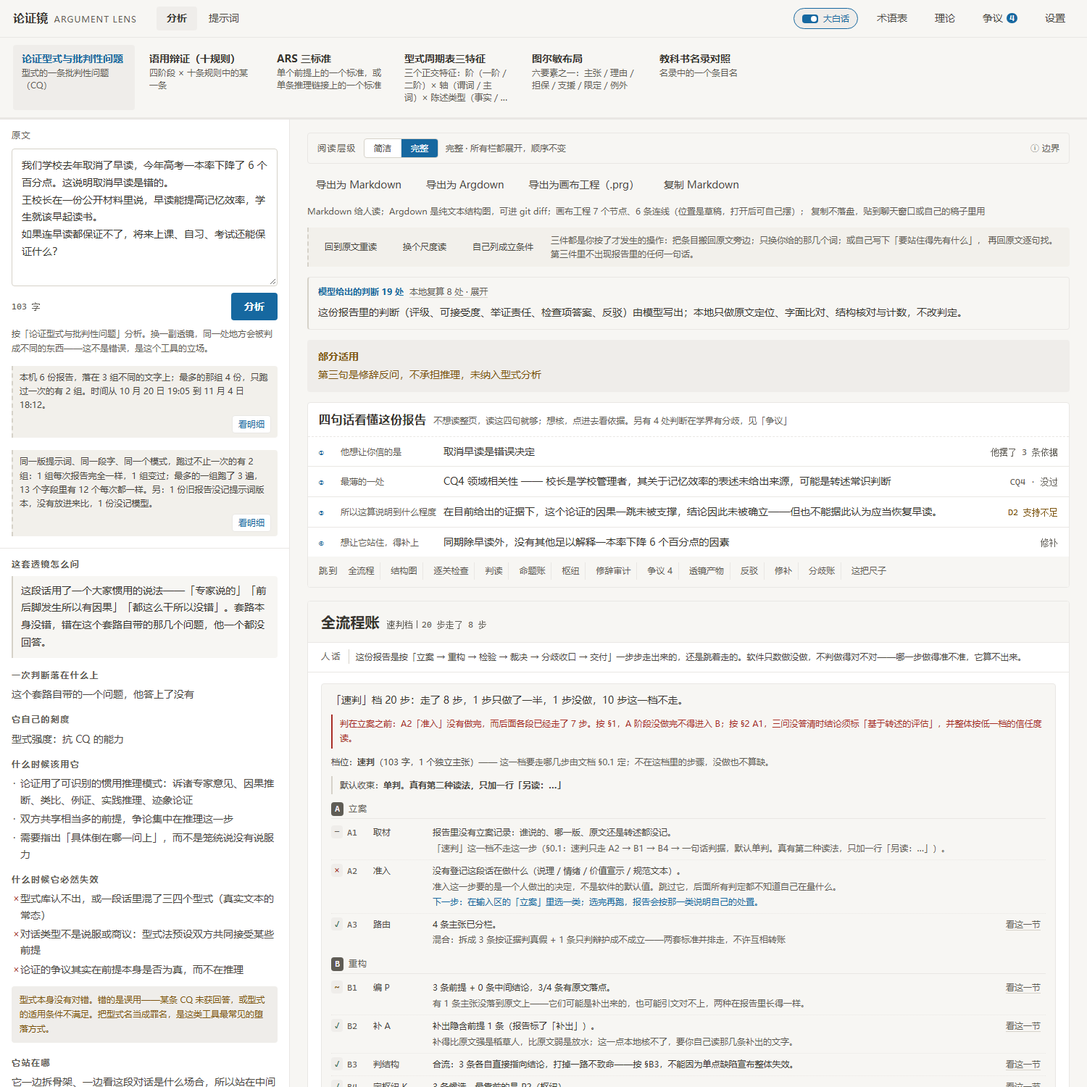
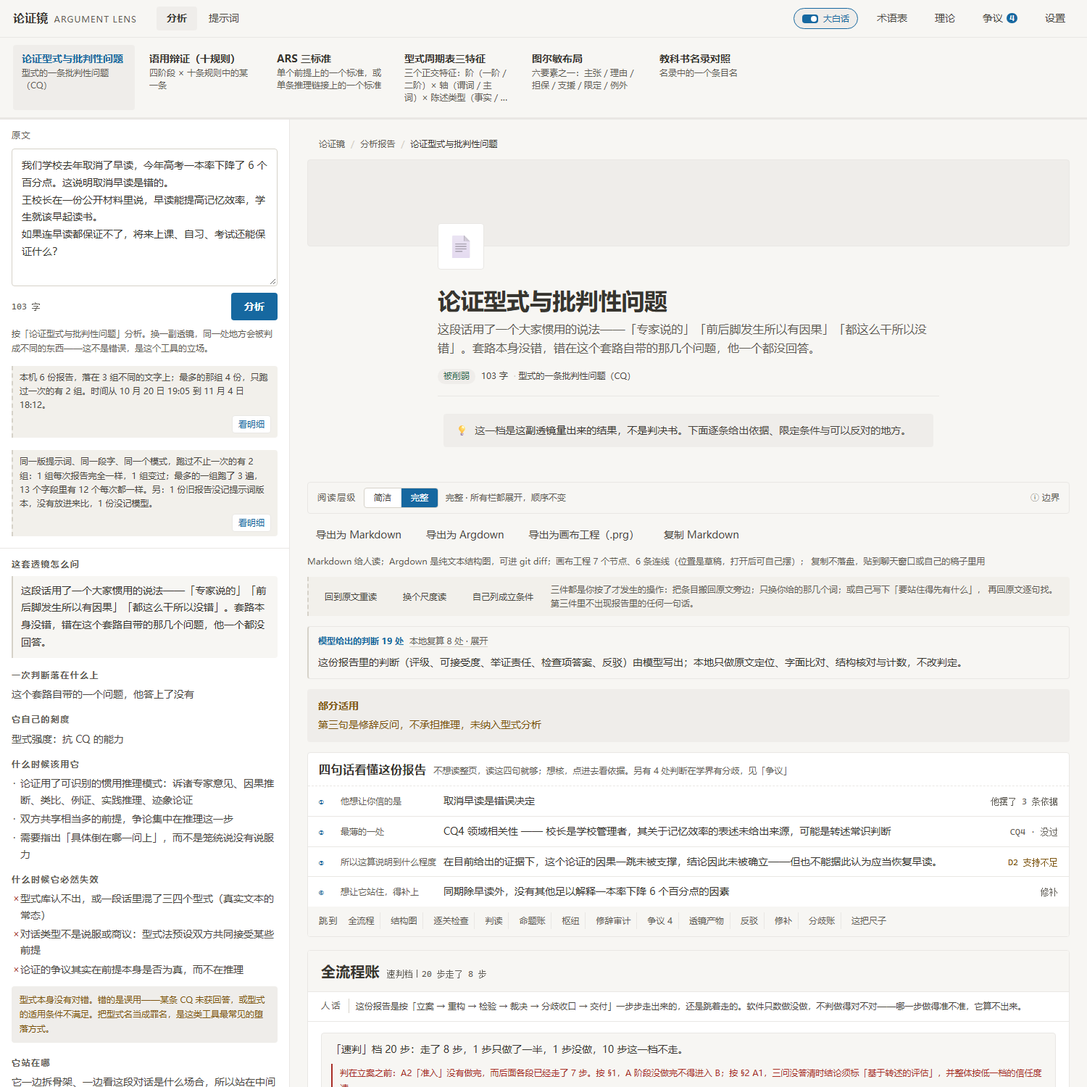
界面：补上 Notion 文档页骨架，让报告读起来像截图那样
用户看了 Notion 配色版仍给出 StyleKit 的 Notion Showcase 截图，要
「就像这样一样，重新调整」。配色已经对了，缺的是文档页骨架：那张图是
面包屑 + 横贯整栏的封面 + 居中 emoji 与 708px 读列 + 大标题 + meta 胶囊
+ Callout；我们此前只是把三栏工具台换了米色。

判断：这是诊断工具不是文档站，左侧原文输入是核心交互、报告内容不能减。
所以保留全部功能，给报告主区加一层文档头，不把应用改成只读文档。

· 新增 DocHead 组件与 styles-docpage.css，App.tsx 与预览 mock.tsx 共用：
  面包屑、纯色封面、emoji、透镜名大标题、plainClaim 副标题、判定档位胶囊
  （走 LEVEL_LABEL[verdict.level]，不写死）、Callout 说明「不是判决书」。
· 结构上踩坑：封面最初也限 708px，截图里上窄下宽割裂。改成封面横贯整栏、
  只有 .doc-inner 是 708px 居中读列，与下方报告接上。

check:ui-rules 172 → 191 项：文档头七部件、708px 居中、封面不自设宽度、
胶囊 999px、Callout 4px+灰底、样式表无 hex 无渐变、两套骨架都渲染且档位
走真实字段。顺带修圆角断言盲区（var(--radius-*) 解成字面值再判）。
15 组反证逐组真红含 2 组防假绿；反证抓出并修掉一个真实假绿：部件检测用
前缀匹配把 doc-cover-old 也算命中，改成带闭合引号的精确匹配。

verify 59、check:docs 91、基准重放 6 份一致、smoke / dist / pack:check 全绿。
首屏重拍留档 ui-docpage-2026-11-21.png。没验的：无头 Chrome 缺 emoji 字体
截成灰方块（真机应为彩色）、整篇观感像不像仍是人眼判断。判定/档位/
提示词/库一个字没动。

diff --git a/src/renderer/src/styles-docpage.css b/src/renderer/src/styles-docpage.css
@@ -1,0 +1,190 @@
+/*
+ * 文档页外壳（Notion Showcase 那张图的形态）。
+ *
+ * 为什么有这一层：
+ * 之前的主窗口是「三栏工具台」——顶栏 + 透镜条 + 400px 输入框 + 报告区。
+ * 用户给的截图是 Notion 的文档展示页：窄导航侧栏 + 面包屑 + 封面 +
+ * emoji + 大标题 + 一行 meta 胶囊 + 708px 居中的读列 + Callout 块。
+ * 配色已经对了，缺的是这套「文档页」的骨架。这里只补骨架，不动任何判定、
+ * 档位、报告内容——报告仍原样排在文档头下面。
+ *
+ * 全部颜色走契约层/语义层变量，不自带 hex；字号只用 12/14/16/20/24/32；
+ * 圆角只 4px 与 999px 胶囊；无渐变、无投影、无位移、hover 只变背景色。
+ */
+
+/* ── 文档页容器：封面铺满报告区，正文读列居中 ───────────────
+ * 报告区的宽度由 .main>* 的 1240px 上限管，这里不再另设 708——
+ * 否则封面只有半栏宽、下面的报告铺满，会出现「上窄下宽」的割裂。
+ * 真正 708px 的读列是里面的 .doc-inner。截图正是这个结构：
+ * 封面横跨整栏，emoji / 标题 / 正文收在居中的文档读列里。 */
+.doc-page {
+  width: 100%;
+  padding: 0 0 var(--spacing-24);
+}
+
+/* 708px 居中读列：正文、标题、emoji 都收在这里。 */
+.doc-inner {
+  width: 100%;
+  max-width: var(--page-max-width);
+  margin: 0 auto;
+}
+
+/* ── 面包屑：StyleKit / Notion Style / Showcase 那种一行浅灰路径 ── */
+.doc-crumbs {
+  display: flex;
+  align-items: center;
+  gap: var(--spacing-8);
+  font-size: var(--text-label);
+  color: var(--ink-3);
+  line-height: var(--leading-label);
+  padding: var(--spacing-8) var(--spacing-16) var(--spacing-12);
+}
+/* 每一截面包屑：分隔符与文字同一行，避免换行时把「/」甩到行首 */
+.crumb-wrap {
+  display: inline-flex;
+  align-items: center;
+  gap: var(--spacing-8);
+}
+.doc-crumbs .crumb {
+  color: var(--ink-3);
+}
+.doc-crumbs .crumb.here {
+  color: var(--ink);
+  font-weight: var(--font-weight-medium);
+}
+.doc-crumbs .sep {
+  color: var(--color-line-strong);
+}
+
+/* ── 封面：一条纯色带（不是渐变、不是图片），低到只剩一道色块 ── */
+.doc-cover {
+  height: 120px;
+  background: var(--muted-bg);
+  border-radius: var(--radius-cards);
+  border: 1px solid var(--hair);
+}
+
+/* ── emoji 图标：压在封面下沿，文档页的视觉锚点 ───────────── */
+.doc-emoji {
+  width: 64px;
+  height: 64px;
+  margin-top: -32px;
+  margin-left: var(--spacing-8);
+  display: flex;
+  align-items: center;
+  justify-content: center;
+  font-size: var(--text-display);
+  line-height: 1;
+  background: var(--panel);
+  border: 1px solid var(--hair);
+  border-radius: var(--radius-cards);
+  position: relative;
+}
+
+/* ── 标题区 ───────────────────────────────────────────────── */
+.doc-head {
+  padding: var(--spacing-24) var(--spacing-8) 0;
+}
+.doc-title {
+  font-family: var(--display);
+  font-size: var(--text-display);
+  line-height: var(--leading-display);
+  letter-spacing: var(--tracking-display);
+  font-weight: var(--font-weight-semibold);
+  color: var(--ink);
+  margin: 0 0 var(--spacing-8);
+}
+.doc-subtitle {
+  font-size: var(--text-body-lg);
+  line-height: var(--leading-body-lg);
+  color: var(--ink-3);
+  margin: 0 0 var(--spacing-16);
+}
+
+/* ── meta 胶囊行：Created / Status / Category / Version ────── */
+.doc-meta {
+  display: flex;
+  flex-wrap: wrap;
+  align-items: center;
+  gap: var(--spacing-8);
+  font-size: var(--text-label);
+  color: var(--ink-3);
+  line-height: var(--leading-label);
+  padding-bottom: var(--spacing-16);
+  border-bottom: 1px solid var(--hair);
+}
+.doc-meta .mi {
+  display: inline-flex;
+  align-items: center;
+  gap: var(--spacing-4);
+}
+.doc-meta .mi b {
+  color: var(--ink-2);
+  font-weight: var(--font-weight-medium);
+}
+.doc-meta .dot {
+  color: var(--color-line-strong);
+}
+/* Status 胶囊：唯一带底色的 meta，999px 圆角，压深绿字 */
+.doc-pill {
+  display: inline-flex;
+  align-items: center;
+  padding: 2px var(--spacing-8);
+  border-radius: var(--radius-pills);
+  background: var(--muted-bg);
+  color: var(--strong);
+  font-size: var(--text-label);
+  font-weight: var(--font-weight-medium);
+  line-height: var(--leading-label);
+}
+
+/* ── Callout 块：浅灰底 + 左图标位 + 4px 圆角 ─────────────── */
+.doc-callout {
+  display: flex;
+  gap: var(--spacing-8);
+  padding: var(--spacing-12) var(--spacing-16);
+  margin: var(--spacing-24) var(--spacing-8);
+  background: var(--muted-bg);
+  border-radius: var(--radius-cards);
+  font-size: var(--text-body);
+  line-height: var(--leading-body);
+  color: var(--ink-2);
+}
+.doc-callout .ci {
+  flex: 0 0 16px;
+  font-size: var(--text-body);
+  line-height: var(--leading-body);
+}
+.doc-callout b {
+  color: var(--ink);
+  font-weight: var(--font-weight-medium);
+}
+
+/* ── 正文小标题与段落 ─────────────────────────────────────── */
+.doc-h2 {
+  font-size: var(--text-heading);
+  line-height: var(--leading-heading);
+  font-weight: var(--font-weight-semibold);
+  color: var(--ink);
+  margin: var(--spacing-32) var(--spacing-8) var(--spacing-8);
+}
+.doc-h3 {
+  font-size: var(--text-subheading);
+  line-height: var(--leading-subheading);
+  font-weight: var(--font-weight-medium);
+  color: var(--ink);
+  margin: var(--spacing-24) var(--spacing-8) var(--spacing-8);
+}
+.doc-p {
+  font-size: var(--text-body);
+  line-height: var(--leading-body);
+  color: var(--ink-2);
+  margin: 0 var(--spacing-8) var(--spacing-12);
+  max-width: var(--read-measure);
+}
+
+/* ── 键盘焦点：2px 描边环，不是光晕 ───────────────────────── */
+.doc-page :focus-visible {
+  outline: 2px solid var(--color-link-blue);
+  outline-offset: 1px;
+}

diff --git a/src/renderer/src/components/DocHead.tsx b/src/renderer/src/components/DocHead.tsx
@@ -1,0 +1,69 @@
+/*
+ * 文档页头部（Notion Showcase 那张图的骨架）。
+ *
+ * 这不是新功能：面包屑、封面、emoji、大标题、meta 胶囊只是把「这份报告是谁」
+ * 的信息换成文档页的呈现方式。字段全部来自调用方已有的数据——透镜名、字数、
+ * 判定档位——不新增任何业务数据，也不编造 Created/Version 这类没有的东西：
+ * 没有的字段就不显示，宁可少一行也不编。
+ */
+import type { ReactNode } from 'react';
+
+export interface DocHeadProps {
+  /** 面包屑，最后一项是当前位置。 */
+  crumbs: string[];
+  /** emoj：文档页的视觉锚点，一个字符。 */
+  emoji?: string;
+  /** 大标题。 */
+  title: string;
+  /** 一句话副标题。 */
+  subtitle?: string;
+  /** meta 行右侧的胶囊，通常是判定档位。 */
+  status?: string;
+  /** meta 行的其他字段（透镜 / 字数 / 时间等），逐条 shallow 文本。 */
+  meta?: string[];
+  /** 封面下方、标题上方可选的 Callout（例如「这份报告判的是哪一段」）。 */
+  callout?: ReactNode;
+}
+
+export function DocHead({ crumbs, emoji = '📄', title, subtitle, status, meta = [], callout }: DocHeadProps) {
+  return (
+    <header className="doc-page">
+      <nav className="doc-crumbs" aria-label="位置">
+        {crumbs.map((c, i) => (
+          <span key={i} className="crumb-wrap">
+            {i > 0 && <span className="sep" aria-hidden="true">/</span>}
+            <span className={`crumb ${i === crumbs.length - 1 ? 'here' : ''}`}>{c}</span>
+          </span>
+        ))}
+      </nav>
+
+      <div className="doc-cover" aria-hidden="true" />
+
+      <div className="doc-inner">
+        <div className="doc-emoji" aria-hidden="true">{emoji}</div>
+
+        <div className="doc-head">
+          <h1 className="doc-title">{title}</h1>
+          {subtitle && <p className="doc-subtitle">{subtitle}</p>}
+
+          <div className="doc-meta">
+            {status && <span className="doc-pill">{status}</span>}
+            {meta.map((m, i) => (
+              <span className="mi" key={i}>
+                {i > 0 && <span className="dot" aria-hidden="true">·</span>}
+                <b>{m}</b>
+              </span>
+            ))}
+          </div>
+
+          {callout && (
+            <aside className="doc-callout">
+              <span className="ci" aria-hidden="true">💡</span>
+              <div>{callout}</div>
+            </aside>
+          )}
+        </div>
+      </div>
+    </header>
+  );
+}

diff --git a/src/renderer/src/App.tsx b/src/renderer/src/App.tsx
@@ -18,8 +18,9 @@ import {
   UsageRecord,
   UsageSummary,
 } from '@shared/types';
-import { DEFAULT_THEORY, THEORIES, THEORY_BY_ID, type TheoryId } from '@shared/theories';
+import { DEFAULT_THEORY, THEORIES, THEORY_BY_ID, LEVEL_LABEL, type TheoryId } from '@shared/theories';
 import { DiagnosisView } from './components/Diagnosis';
+import { DocHead } from './components/DocHead';
 import { TheoryBrief } from './components/TheoryBrief';
 import { TheoryBaseDialog } from './components/TheoryBase';
 import { PromptView } from './components/PromptView';
@@ -1635,6 +1636,26 @@ export default function App() {
             </aside>
 
             <main className="main">
+              {/*
+                文档页头：把「这份报告是谁」换成 Notion 文档页的呈现方式
+                （面包屑 + 封面 + emoji + 大标题 + meta 胶囊 + Callout）。
+                只在有报告时出现——空状态不该摆一份空报告的封面。
+                字段全部来自 diag / profile，不新增业务数据。
+              */}
+              {diag && !loading && (
+                <DocHead
+                  crumbs={['论证镜', '分析报告', profile.name]}
+                  title={profile.name}
+                  subtitle={profile.plainClaim}
+                  status={LEVEL_LABEL[diag.verdict.level]}
+                  meta={[`${diag.passage.length} 字`, profile.unit]}
+                  callout={
+                    <>
+                      这一档是<b>这副透镜量出来的结果，不是判决书</b>。下面逐条给出依据、限定条件与可以反对的地方。
+                    </>
+                  }
+                />
+              )}
               {/*
                 长文台账放在报告之前：它是这一批报告的身份——「下面这份是第 5 段」。
                 放在报告之后，读者会先读到一份完整的报告，再被告知它其实只是一段。

diff --git a/src/renderer/src/mock.tsx b/src/renderer/src/mock.tsx
@@ -1,6 +1,6 @@
 import { StrictMode, useEffect, useState, type ReactNode } from 'react';
 import { createRoot } from 'react-dom/client';
-import { THEORIES, THEORY_BY_ID } from '@shared/theories';
+import { THEORIES, THEORY_BY_ID, LEVEL_LABEL } from '@shared/theories';
 import { disputesIn } from '@shared/disputes';
 import { DiagnosisView } from './components/Diagnosis';
 import { HistoryPanel, when } from './components/History';
@@ -44,9 +44,11 @@ import { planLongform, type LongItem, type LongLedger } from '@shared/longform';
 import { LongformLedger } from './components/LongformLedger';
 import { SegmentBar } from './components/SegmentBar';
 import { DensityProvider, BriefFold } from './components/Density';
+import { DocHead } from './components/DocHead';
 import { PREVIEW_DENSITY } from '@shared/ui-density';
 import './styles-density.css';
 import './styles-longform.css';
+import './styles-docpage.css';
 
 /*
  * ?lens=toulmin|ars|pta 可以换成另一副透镜的预览数据。
@@ -1071,6 +1073,18 @@ function Preview() {
           </BriefFold>
         </aside>
         <main className="main">
+          <DocHead
+            crumbs={['论证镜', '分析报告', t.name]}
+            title={t.name}
+            subtitle={t.plainClaim}
+            status={LEVEL_LABEL[D.verdict.level]}
+            meta={[`${D.passage.length} 字`, t.unit]}
+            callout={
+              <>
+                这一档是<b>这副透镜量出来的结果，不是判决书</b>。下面逐条给出依据、限定条件与可以反对的地方。
+              </>
+            }
+          />
           {/* ?longform=1：长文台账。夹具里有跑成 / 失败 / 没跑三种行，缺一种就等于没核过。 */}
           {LONGFORM && (
             <LongformLedger

diff --git a/src/renderer/src/main.tsx b/src/renderer/src/main.tsx
@@ -17,6 +17,7 @@ import './styles-coverage.css';
 import './styles-procedure.css';
 import './styles-density.css';
 import './styles-longform.css';
+import './styles-docpage.css';
 
 createRoot(document.getElementById('root')!).render(
   <StrictMode>

diff --git a/AGENTS.md b/AGENTS.md
@@ -101,7 +101,7 @@ npm run verify
 | `check:coverage` | **长文覆盖账破了**：短文本也摆一条 100% 的空面板、句子带着段间空行被归错段（off-by-one）、另切一套段落不与「切给我看」同源、每句归一段的守恒破了、抬头不写「有位置的条目」让检查依据混进数字、判定那格不带范围或范围句没挂在 `cov.partial` 上（词还在、行不渲染）、又写出「不等于分析漏了」这种替模型打包票的话、判定区那颗「切给我看」挂在恒真条件上或事件名两端对不上（派发 `al:segment`、切分条接同一名字）、点了不展开／不滚／不闪、在判定区塞进花钱入口、界面写出劝告或「分析漏了」、只剩 import 或样式／预览／端到端探针没接 |
 | `check:docs` | **这份文件自己腐烂了**：它点名的命令/路径不存在，或漏掉了某个 check |
 
-`check:gloss` 守工作台的人话口径：内联术语表由 `gloss:sync` 从 `src/renderer/src/glossary.ts` 生成，术语改了字却没同步、字段映射引用了不存在的术语 key、或检查器丢掉「原始 JSON」取证入口，这一关就红。`check:archive` 守存档损坏不许被吞掉：`archive:health` / `archive:probe` 纯读不写盘、点开坏报告有话说、历史空态在坏盘上不谎报「还没有」、`archive:list` / `archive:get` 形状不变（smoke 拿它们当独立真值）；改 `src/main/archive.ts` 的 catch 之前先读 `scripts/check-archive-health.mjs`。`check:workbench` 守回看台左栏与工具条（`src/renderer/public/workbench.html` 是单文件页面，`check:css` 与 `check:arch` 都扫不到它）：存档行第一行必须是原文摘录（不许只留在 `title` 里）、第二行必须是「时间 · 模式 · 档位中文」，`.arcmain` 必须有 `min-width:0`（少了它省略号静默失效），工具条必须能换行且 `.app` 第二行是 `auto`——1100px 宽时固定 34px 会把「这份报告」压成竖排、把快捷键提示推出可视区。`check:context-source` 守语境出处（`context.grounding`）：七格各标 `known`／`inferred`／`guess`；说 `known` 却指不出原文的由本地降为 `inferred` 并留一条诊断，`guess` 缺 `ifChanged` 要留痕，旧存档不许补一条假的出处；那条规则还必须真进了 30 份提示词，不是只写在 schema 里。改 `src/shared/context-grounding.ts` 之前先读它开头的实测数字——这一层只做可复算的对位，不替模型判它猜得对不对。`check:context-use` 守「语境到底被哪些判断读走」（`src/shared/context-use.ts`）：六副透镜里 walton／pragma／ars 读语境、pta／toulmin／copi 一格都不读，每条依赖都要指得出出处（`theory-base` 条目 id 或这副透镜 `procedure` 的原话），检查逐条核「条目存在、条目管这副透镜、正文确实谈到这一格」；界面据此分口径（读几格／不读语境），判定区那句只在确有站不住的格时出现，旧存档说「分不出」而不是「假定」。改这张表等于改「这副尺子的判定靠什么站住」——**加一条依赖必须在 theory-base 里找得到出处**，找不到就先补理论条目，不许先改表。`check:grading` 守 D0–D5 判档记录（`src/shared/grading.ts`）：本地只核记录齐不齐、与报告其余部分矛不矛盾（D2 及以上缺缺陷位置、缺降级条件、D5 缺三闸门记录或反事实移除测试，这一档就不算成立），**不改模型判的档位**——「判断由模型写出、本地不独立判」是产品定位，不是待补的洞；旧存档没有这一栏，界面说「分不出」而不是补一个档。`check:rhetoric` 守修辞审计（`src/shared/rhetoric.ts`，D-03）：八列词表与 D-03 4.8 一一对应；本地只核「表做完了没有」——判了替代成立必须有四项齐全的替代链、说了移交 D5 必须有两手以上的链（单手法写「只记缺陷位置」）、与结论强度超载同一处只计一次；**替代是否成立不归本地**（那要重跑 B-01 到 B-04 的重构），卡片里写死一处「替代成立」就会被这一关抓住。别把「有没有情绪／权威／故事」当审计对象——查的是位置，不是有无。`check:ledger` 守命题账（`src/shared/ledger.ts`，D-02）：三栏（事实·可裁／事实·不可裁／规范·不可裁）与各自的封闭状态值、不判七项、双向谬误筛查，全部照 D-02 与 A-03。本地只核四件事——每条命题有没有上账、状态值有没有越栏（规范栏写「已证真」即串账）、账里有没有出现 D0–D5（档位另属一本账）、规范栏有没有写 A_v 与条件式结论；**状态值一个字都不改**。「不判也是判决」：未决／不可裁／未证成都要写理由类型、举证责任与定案条件，只写「此处不判」按漏记处理。本地按用词归的栏与账上不一致时记一条分歧（`column-disagreement`），不静默取一——D-02 4.7 禁的是静默改栏，不是分歧本身。`check:scheme-cq` 守型式—CQ 对表（`src/shared/scheme-cq.ts`，C-04 + C-03）：十九型的最低问题集、判定要点与微型示例逐行照表，第 1–18 型标「已核准确」、第 19 型标「本流程自定」；库内 23 个型式逐条登记「映射到表内哪一型、每一问由库内哪条 CQ 承接、哪一问库内根本没有」。**本地只按编号对，不判这一问答得对不对**；三种缺席必须分开——「本库没有」是库的边界（要改库，下一版），「报告未登记」才是模型漏答（要补答），「不适用」不进分母。改这张表之前先读它开头那段与 `LIB_SCHEME_MAP`：相关—因果四问里库内只列了三问，少的那一问是「机制」——把它写成已覆盖，读者就再也看不到那个缺口。`check:ui-rules` 守界面那几条能被机器量的规则（依据是一份 UI 检查清单，不是口味）：两套主题下每个前景色落在每个底色上都要 ≥4.5:1（WCAG AA）；字号只留 12 / 14 / 16 / 20 / 24 / 32 六档（20 是 Notion 字阶的 subheading，给区段标题；10/11/13/15/22 那套旧苹果档已废）；圆角只留 4px（卡片/按钮/输入框）与 999px（药丸），1px 与 50% 是圆点形状不算；这两条同时罩 `src/renderer/src/*.css` 与回看台单文件里的 `<style>`——此前只读 `workbench.html`，React 主窗口那一侧积了 20 种字号、13 种圆角而无人管，另外还比对 `Diagram.tsx` 里那张 SVG 调色板与 `:root` 是否一致（SVG 不认 var，那张表是手抄影子；必须先在 `:root` 里解析 `var()` 引用链才能对表，否则语义层换成 hex 会一起假绿），且要求表里每个键都有映射；档位圆点必须形状加颜色双编码（实心圆=站得住、空心圈=削弱、实心方=不成、空心方=未定），图例就写在左栏；顶栏不铺实心底色、一屏只有一个实心主按钮；密集列表用隔行底色、不再每行拉线；空状态要走 `estate()` 且带一个真能点的动作；正文限宽 708px（参考的读列上限，速览页 `.ov` 与检索页 `.sr` 都受它约束）、说明条限宽并断。这一轮又加了四条：主窗口 `:root` 的前景 × 底色逐对过 4.5:1（外加实心底上的 `--on-solid` 白字）、`:root` 之外不许出现任何色值（白也是颜色，得有名字；注释里的历史色值不算）、区段标题 `.block-head .t` 必须 20px、次按钮 `.ghost-btn`／`.exp-btn`／`.rr-open` 全站共用一套皮（透明底，hover 才铺灰，无描边）。界面规则 76 → 91 项。调色板那条吃过一次亏：正则里混进一个退格控制字符，扫描静默失效，手工把旧色值塞回样式表依旧全绿——8 组反证逐组真红（含一组「注释里写旧色值必须仍然绿」的防假绿）；这一轮又补四条「减噪」：四个状态底色必须同为中性灰（语义交给字色与形状，不靠一块块彩色底）、彩色 3px 与蓝色实线左边条清零、首屏高频标签（`.qx`／`.qn-chip`／`.src-tag`／`.wf-go`）不许带底色与圆角框、整条横幅（`.wf-breach`／`.wf-closure`）不许铺底；界面规则 91 → 111 项，10 组反证逐组真红。最后整套换成 Notion 风格并重写守卫：`:root` 三层里契约层逐项等于参考精确值（米纸 `#f7f6f3`、墨 `#37352f`、发丝线 `#e9e7e4`、原味蓝 `#2eaadc`、原味红 `#eb5757`、六档字号、间距/圆角/708px 布局），语义层只准 `var()` 引用不准自带 hex，原味蓝红不许做文字色（白底 2.66/3.48:1，压深成 `--color-link-ink` / `--color-marker-ink`）；再守无渐变、无毛玻璃、除弹层外无投影、无 transform/scale/translate 动效、transition ≤150ms 且只有颜色类属性、hover 只变背景色（含 `border-color`，回看台 `<style>` 同样罩）、Ghost Button 常态透明、状态底色同为中性灰。界面规则 111 → 172 项，22 组反证逐组真红（含 2 组防假绿）。它读的是源码里的 CSS 文本，管不到浏览器里的真实排版——挤压与裁字仍要 CDP 量或人眼看图；**改调色板之前先跑它，别用眼睛估对比度**。`smoke` 与 `pack:check` 不进 verify（要几分钟、要起应用），改到界面或打包时单独跑。verify 现在是并发的：typecheck 先单跑（它红了会把后面的报错全带偏），其余最多 6 路并行。**怀疑并发把某一项搞红了，先 `VERIFY_JOBS=1 npm run verify` 复现**——串行也红，就不是并发的事。
+`check:gloss` 守工作台的人话口径：内联术语表由 `gloss:sync` 从 `src/renderer/src/glossary.ts` 生成，术语改了字却没同步、字段映射引用了不存在的术语 key、或检查器丢掉「原始 JSON」取证入口，这一关就红。`check:archive` 守存档损坏不许被吞掉：`archive:health` / `archive:probe` 纯读不写盘、点开坏报告有话说、历史空态在坏盘上不谎报「还没有」、`archive:list` / `archive:get` 形状不变（smoke 拿它们当独立真值）；改 `src/main/archive.ts` 的 catch 之前先读 `scripts/check-archive-health.mjs`。`check:workbench` 守回看台左栏与工具条（`src/renderer/public/workbench.html` 是单文件页面，`check:css` 与 `check:arch` 都扫不到它）：存档行第一行必须是原文摘录（不许只留在 `title` 里）、第二行必须是「时间 · 模式 · 档位中文」，`.arcmain` 必须有 `min-width:0`（少了它省略号静默失效），工具条必须能换行且 `.app` 第二行是 `auto`——1100px 宽时固定 34px 会把「这份报告」压成竖排、把快捷键提示推出可视区。`check:context-source` 守语境出处（`context.grounding`）：七格各标 `known`／`inferred`／`guess`；说 `known` 却指不出原文的由本地降为 `inferred` 并留一条诊断，`guess` 缺 `ifChanged` 要留痕，旧存档不许补一条假的出处；那条规则还必须真进了 30 份提示词，不是只写在 schema 里。改 `src/shared/context-grounding.ts` 之前先读它开头的实测数字——这一层只做可复算的对位，不替模型判它猜得对不对。`check:context-use` 守「语境到底被哪些判断读走」（`src/shared/context-use.ts`）：六副透镜里 walton／pragma／ars 读语境、pta／toulmin／copi 一格都不读，每条依赖都要指得出出处（`theory-base` 条目 id 或这副透镜 `procedure` 的原话），检查逐条核「条目存在、条目管这副透镜、正文确实谈到这一格」；界面据此分口径（读几格／不读语境），判定区那句只在确有站不住的格时出现，旧存档说「分不出」而不是「假定」。改这张表等于改「这副尺子的判定靠什么站住」——**加一条依赖必须在 theory-base 里找得到出处**，找不到就先补理论条目，不许先改表。`check:grading` 守 D0–D5 判档记录（`src/shared/grading.ts`）：本地只核记录齐不齐、与报告其余部分矛不矛盾（D2 及以上缺缺陷位置、缺降级条件、D5 缺三闸门记录或反事实移除测试，这一档就不算成立），**不改模型判的档位**——「判断由模型写出、本地不独立判」是产品定位，不是待补的洞；旧存档没有这一栏，界面说「分不出」而不是补一个档。`check:rhetoric` 守修辞审计（`src/shared/rhetoric.ts`，D-03）：八列词表与 D-03 4.8 一一对应；本地只核「表做完了没有」——判了替代成立必须有四项齐全的替代链、说了移交 D5 必须有两手以上的链（单手法写「只记缺陷位置」）、与结论强度超载同一处只计一次；**替代是否成立不归本地**（那要重跑 B-01 到 B-04 的重构），卡片里写死一处「替代成立」就会被这一关抓住。别把「有没有情绪／权威／故事」当审计对象——查的是位置，不是有无。`check:ledger` 守命题账（`src/shared/ledger.ts`，D-02）：三栏（事实·可裁／事实·不可裁／规范·不可裁）与各自的封闭状态值、不判七项、双向谬误筛查，全部照 D-02 与 A-03。本地只核四件事——每条命题有没有上账、状态值有没有越栏（规范栏写「已证真」即串账）、账里有没有出现 D0–D5（档位另属一本账）、规范栏有没有写 A_v 与条件式结论；**状态值一个字都不改**。「不判也是判决」：未决／不可裁／未证成都要写理由类型、举证责任与定案条件，只写「此处不判」按漏记处理。本地按用词归的栏与账上不一致时记一条分歧（`column-disagreement`），不静默取一——D-02 4.7 禁的是静默改栏，不是分歧本身。`check:scheme-cq` 守型式—CQ 对表（`src/shared/scheme-cq.ts`，C-04 + C-03）：十九型的最低问题集、判定要点与微型示例逐行照表，第 1–18 型标「已核准确」、第 19 型标「本流程自定」；库内 23 个型式逐条登记「映射到表内哪一型、每一问由库内哪条 CQ 承接、哪一问库内根本没有」。**本地只按编号对，不判这一问答得对不对**；三种缺席必须分开——「本库没有」是库的边界（要改库，下一版），「报告未登记」才是模型漏答（要补答），「不适用」不进分母。改这张表之前先读它开头那段与 `LIB_SCHEME_MAP`：相关—因果四问里库内只列了三问，少的那一问是「机制」——把它写成已覆盖，读者就再也看不到那个缺口。`check:ui-rules` 守界面那几条能被机器量的规则（依据是一份 UI 检查清单，不是口味）：两套主题下每个前景色落在每个底色上都要 ≥4.5:1（WCAG AA）；字号只留 12 / 14 / 16 / 20 / 24 / 32 六档（20 是 Notion 字阶的 subheading，给区段标题；10/11/13/15/22 那套旧苹果档已废）；圆角只留 4px（卡片/按钮/输入框）与 999px（药丸），1px 与 50% 是圆点形状不算；这两条同时罩 `src/renderer/src/*.css` 与回看台单文件里的 `<style>`——此前只读 `workbench.html`，React 主窗口那一侧积了 20 种字号、13 种圆角而无人管，另外还比对 `Diagram.tsx` 里那张 SVG 调色板与 `:root` 是否一致（SVG 不认 var，那张表是手抄影子；必须先在 `:root` 里解析 `var()` 引用链才能对表，否则语义层换成 hex 会一起假绿），且要求表里每个键都有映射；档位圆点必须形状加颜色双编码（实心圆=站得住、空心圈=削弱、实心方=不成、空心方=未定），图例就写在左栏；顶栏不铺实心底色、一屏只有一个实心主按钮；密集列表用隔行底色、不再每行拉线；空状态要走 `estate()` 且带一个真能点的动作；正文限宽 708px（参考的读列上限，速览页 `.ov` 与检索页 `.sr` 都受它约束）、说明条限宽并断。这一轮又加了四条：主窗口 `:root` 的前景 × 底色逐对过 4.5:1（外加实心底上的 `--on-solid` 白字）、`:root` 之外不许出现任何色值（白也是颜色，得有名字；注释里的历史色值不算）、区段标题 `.block-head .t` 必须 20px、次按钮 `.ghost-btn`／`.exp-btn`／`.rr-open` 全站共用一套皮（透明底，hover 才铺灰，无描边）。界面规则 76 → 91 项。调色板那条吃过一次亏：正则里混进一个退格控制字符，扫描静默失效，手工把旧色值塞回样式表依旧全绿——8 组反证逐组真红（含一组「注释里写旧色值必须仍然绿」的防假绿）；这一轮又补四条「减噪」：四个状态底色必须同为中性灰（语义交给字色与形状，不靠一块块彩色底）、彩色 3px 与蓝色实线左边条清零、首屏高频标签（`.qx`／`.qn-chip`／`.src-tag`／`.wf-go`）不许带底色与圆角框、整条横幅（`.wf-breach`／`.wf-closure`）不许铺底；界面规则 91 → 111 项，10 组反证逐组真红。最后整套换成 Notion 风格并重写守卫：`:root` 三层里契约层逐项等于参考精确值（米纸 `#f7f6f3`、墨 `#37352f`、发丝线 `#e9e7e4`、原味蓝 `#2eaadc`、原味红 `#eb5757`、六档字号、间距/圆角/708px 布局），语义层只准 `var()` 引用不准自带 hex，原味蓝红不许做文字色（白底 2.66/3.48:1，压深成 `--color-link-ink` / `--color-marker-ink`）；再守无渐变、无毛玻璃、除弹层外无投影、无 transform/scale/translate 动效、transition ≤150ms 且只有颜色类属性、hover 只变背景色（含 `border-color`，回看台 `<style>` 同样罩）、Ghost Button 常态透明、状态底色同为中性灰。界面规则 111 → 172 项，22 组反证逐组真红（含 2 组防假绿）。后来用户又给了一张 StyleKit 的 Notion Showcase 截图要「就像这样一样」——配色已经对了，缺的是文档页骨架。于是加 `DocHead`（`src/renderer/src/components/DocHead.tsx`，样式在 `styles-docpage.css`）：面包屑 + 纯色封面 + emoji + 大标题 + meta 胶囊 + Callout，收在 `.doc-inner` 的 708px 居中读列里；**封面必须横贯整栏**，只让正文 708px——`.doc-page` 若自设 max-width 就会「上窄下宽」割裂，这条有断言守。真实 `App.tsx` 与预览 `mock.tsx` 必须共用同一个 `DocHead`（只守预览是假绿），状态胶囊走真实 `LEVEL_LABEL[verdict.level]`、不许写死。圆角断言现在会解析 `var(--radius-*)` 到字面值再判（解不到照样红），否则新样式用变量会被误判成多种圆角。界面规则 172 → 191 项，文档页 15 组反证逐组真红（含 2 组防假绿）；反证抓出并修掉一个前缀匹配假绿（`className="doc-cover` 会把 `doc-cover-old` 也算命中，已改成带闭合引号的精确匹配）。它读的是源码里的 CSS 文本，管不到浏览器里的真实排版——挤压与裁字仍要 CDP 量或人眼看图；**改调色板之前先跑它，别用眼睛估对比度**。`smoke` 与 `pack:check` 不进 verify（要几分钟、要起应用），改到界面或打包时单独跑。verify 现在是并发的：typecheck 先单跑（它红了会把后面的报错全带偏），其余最多 6 路并行。**怀疑并发把某一项搞红了，先 `VERIFY_JOBS=1 npm run verify` 复现**——串行也红，就不是并发的事。
 
 ---
 ## 改什么要跑什么

diff --git a/README.md b/README.md
@@ -391,7 +391,7 @@ API 无状态，每次都得原样重发一遍。
 检索页的空状态从「一句话」改成符号 + 标题 + 为什么 + **四个示例词**（点了直接搜），搜空时给「清空关键词与过滤」；
 顶部说明条原来 230 字铺满 1080px（每行字数是清单上限的三倍），现在断成两行，正文限宽 880px。
 
-守它的是 `check:ui-rules`（当前 172 项），反证 22 组逐组真红（含 2 组防假绿）。它只读源码里的 CSS 文本——观感仍是主观的，
+守它的是 `check:ui-rules`（当前 191 项），反证 37 组逐组真红（含 4 组防假绿）。它只读源码里的 CSS 文本——观感仍是主观的，
 挤压与截断仍要 CDP 量或人眼看图；清单里「先定界面个性」「留白先多后少」这类没有数字的条目，机器守不了。
 前后截图在 `docs/screenshots/ui-rules-2026-11-18/`。
 
@@ -411,6 +411,8 @@ API 无状态，每次都得原样重发一遍。
 **「高级感」之后用户只回了一句：太杂乱。** 回去把三张放大图摊开数，问题不在配色不够精致，在**装饰的种类太多**：一屏里同时有淡黄「部分适用」、淡红「支柱立即整改」、淡蓝「默认裁决」三块整条彩色底，几十个圆角小徽章（「19 处」「8 处」「D2 支持不足」「修补」），满屏 3px 彩色左边条，再加 12 个跳转药丸和 20 个「看这一节」小方框——每一块都在说「看我」，于是谁都不重要。上一轮做的是「把每种装饰修好」，这一轮做的是**减法**：① 四个状态底色（`--strong-bg` / `--weak-bg` / `--invalid-bg` / `--legal-bg`）收敛成同一个中性灰，语义仍由文字色与形状承担——「D2 支持不足」「没过」这些词本来就写在那儿，底色只是把同一句话说第二遍；`Diagram.tsx` 的 C 表同步，最低对比度反而从 4.54:1 升到 5.14:1。② 彩色 3px 竖条清零、蓝色 2px 实线条全换中性线（第一刀只收了 3px，新规则把漏网的 10 处 2px 抓了出来）。③ 首屏高频标签统一去壳：四句话卡右端徽章、判断数、跳转目录、流程账行末链接全部改成纯文字（可点的用下划线，切分靠 1px 竖发丝线，不靠圆角框）；两条整条横幅去底，只留红字与左边细线；顶栏六张透镜卡常态去描边，选中态才染蓝。**新规则四条**（界面规则 91 → 111 项）：状态底色必须是中性灰且四者同值、彩色 3px 与蓝色实线左边条为零、四个代表标签不许带底色与圆角框、整条横幅不许铺底。10 组反证逐组真红，含一组防假绿。截图逐屏看过：切分还在、下划线看得清、没有变成一片发虚的灰字；首屏见 `docs/ui-preview.png`，本轮留档 `docs/screenshots/ui-declutter-2026-11-20.png`。**没验的**：「不杂乱」量不出来——元素该留几个是编辑判断，规则只守住了「不许退回彩色块与圆角框」；真机上滚到长报告时这种克制会不会读成「太素」，也没量过。判定、档位、提示词、库一个字没动。
 
 **界面又整体换了一次设计语言：不是给苹果那套调色相，是改成 Notion 的米纸文档。** 用户给出了整份《Notion 风格 — 风格参考》并要求「全面重新设计界面 UI」。画布换成米纸 `#f7f6f3`、文档区纯白、正文压到暖墨 `#37352f`，分隔只用 1px 发丝线 `#e9e7e4`；投影、毛玻璃、渐变、位移动效一律清零，hover 只让背景从纸面变到 `#efedea`、150ms 内完成，不位移不缩放不跳阴影。字族全站唯一（`ui-sans-serif` + 系统中文字族），字号只留 12／14／16／20／24／32 六档，圆角只留 4px 与 999px 胶囊，正文读列硬上限 708px、区段间距 48px、卡片内边距 16px、元素间距 8px。**原味 Link Blue `#2eaadc`（白底 2.66:1）与 Marker Red `#eb5757`（3.48:1）做文字色不合 WCAG AA**：契约层保留原味值做点缀，另立压深一档的 `--color-link-ink` / `--color-marker-ink` 专供文字与实心按钮——同一支颜色的两级明度，不是换了颜色。设计真值按三层收在 `:root`：契约层（`--color-*` / `--text-*` / `--spacing-*`）写死参考里的数，派生层压深，语义层（`--bg` / `--ink` / `--accent`…）一律 `var()` 引用、不准自带 hex；`check:ui-rules` 解析整条引用链再算对比度与图表色表对表，否则「语义层换成 hex」会让验算和图表影子表一起哑掉。这一轮最实质的改动仍在守卫：`check:ui-rules` 从苹果断言整体重写成 Notion 契约守卫（精确值逐项对表、字阶圆角、无渐变/毛玻璃/投影/transform、transition ≤150ms、hover 只变背景色、708px 读列、Ghost Button 透明底、状态底色中性），并堵住两个假绿——`border(…)?:\s*` 原先抓不到 `border-color`（48 处 hover 各自改边框，其中回看台 4 处根本没被扫），回看台的 `<style>` 压根没进 hover/动效检查；样式侧把 48 处 hover 收敛成背景灰（33 处补了背景），清掉 4 处 inset 1px 描边阴影（含一处 React 内联——守卫扫不到的真假绿）。**界面规则 111 → 172 项**，22 组反证逐组真红，含 2 组防假绿（注释里写旧色值与渐变／字族栈里加合法系统字族，都必须仍绿）。首屏见 `docs/ui-preview.png`。**没验的**：Notion 风格「顺眼不顺眼」量不出来，规则只守得住能算的契约值；真机滚到长报告中段读成「太素」还是「安静」，只能看图。判定、档位、提示词、库一个字没动。
+
+**配色对了，但骨架还是工具台——用户又给了一张 StyleKit 的 Notion Showcase 截图，要「就像这样一样」。** 那张图是文档页：窄导航侧栏、面包屑、横贯整栏的浅灰封面、居中的 emoji 与 708px 读列、大标题、一行 meta 胶囊、Callout 块；而我们此前只是把三栏工具台换了米色，缺的正是这套骨架。这一轮保留全部功能（左侧原文输入不能删、报告内容不能减），给报告主区加一层文档头 `DocHead`：面包屑「论证镜 / 分析报告 / 透镜名」、纯色封面（不是渐变的图片）、emoji 压在封面下沿、lens 名做大标题、`plainClaim` 做副标题、判定档位走 `LEVEL_LABEL` 做成浅灰胶囊、再挂一条 Callout 说明「这一档是透镜量出来的，不是判决书」。结构上刻意做成**封面横贯整栏、只有正文收在 708px 居中读列**——第一版让封面也 708px，结果「上窄下宽」割裂，截图一看就是两套皮拼的；改成 `.doc-page` 铺满、`.doc-inner` 才 708px 之后才和下方报告接上。真实应用 `App.tsx` 与截图用 `mock.tsx` 共用同一个 `DocHead`，不能只让预览页好看。状态胶囊取真实字段（`diag.verdict.level` / `D.verdict.level`），不写死文本。**界面规则 172 → 191 项**：新增文档头七部件、708px 居中读列、封面不自设宽度、胶囊 999px、Callout 4px+灰底、样式表无 hex 无渐变、两套骨架都渲染 DocHead 且档位走真实字段；同时修了圆角断言的解析盲区（`var(--radius-*)` 原先被当成"多出一种圆角"，现在解析到字面值再判，解不到照样红）。15 组反证逐组真红，含 2 组防假绿；反证还抓出并修掉一个真实假绿——部件检测用 `className="doc-cover` 这种无闭合引号的前缀匹配，把 `doc-cover-old` 也算命中，改成带闭合引号的精确匹配才真红。首屏 `docs/ui-preview.png`，本轮留档 `docs/screenshots/ui-docpage-2026-11-21.png`。**没验的**：emoji 在无头 Chrome 里渲染成灰色方块（系统 emoji 字体缺失），真机 Electron 里应是彩色，未在本机截图里核对；「整篇文档观感像不像」仍是人眼判断。判定、档位、提示词、库一个字没动。
 
 ---
 
